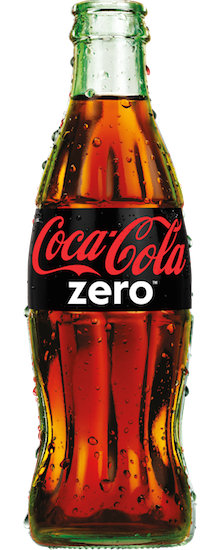
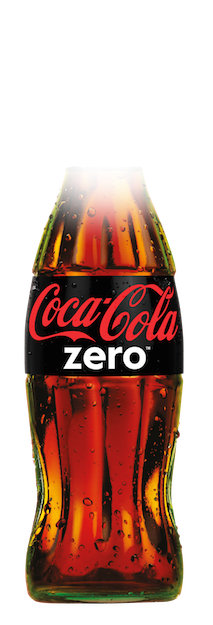
Updated art assets and live demo tweaks

diff --git a/index.html b/index.html
@@ -6,22 +6,29 @@
   <meta name="viewport" content="width=device-width, initial-scale=1">
   <style>
     #volume-container{
-    position: relative;
-    margin: 50px auto 0 auto;
-    width: 190px;
-    padding: 20px;
+    position: absolute;
     z-index: 1;
     background: rgba(205,205,205, 0.8);
     border-radius: 5px;
   }
+  body{
+    /*background-color: #000;*/
+  }
+
   @media (min-width: 480px) {
+      #volume-container{
+      left: 50px;
+      top: 50px;
+      width: 200px;
+      padding: 20px;
+    }    
     .drink {
-      height: 550px;
-      width: 220px;
+      height: 625px;
+      width: 213px;
     }
     #coke {
-      height: 550px;
-      margin: 0 auto;
+      height: 625px;
+      margin: -10px auto 0 auto;
       position: relative;
     }
     #coke .drink {
@@ -30,20 +37,43 @@
       position: absolute;
     }
     #bottle {
-      background: url(images/bottle_empty.alt.png) no-repeat;
+      background: url(images/bottle_empty.png) no-repeat;
+      z-index: 1;
     }
     #liquid {
-      background-color: #651a1a;
-      /*background: url(images/bottle_full.png) no-repeat;*/
-      height: 85%;
+      /*background-color: #651a1a;*/
+      background: url(images/bottle_full.png) no-repeat;
+      background-position: center -2px;
+      background-attachment: fixed;
+      overflow: hidden;
+      height: 100%;
       transition: height 200ms cubic-bezier(0,0,0.58,1.2);
+      z-index: 2;
+    }
+    #liquid img{
+      position: absolute;
+      left: 0;
+      top: 0;
     }
   }
+  @media (max-width: 480px) {  
+    body{
+      background: url(images/cinema_mobile.png) no-repeat;
+      background-size: cover;
+    }  
+    #volume-container{
+      right: 10px;
+      top: 10px;
+      width: 100px;
+      padding: 5px;
+      font-size: 8px
+    }
+  }  
   </style>
 </head>
 <body>
   <div id="coke" class="drink">
-    <div id="liquid" class="drink"></div>
+    <div id="liquid" class="drink"><!-- <img src="images/bottle_full.png"/> --></div>
     <div id="bottle" class="drink"></div>
   </div>
   <div id="volume-container">

diff --git a/public/javascript/app.js b/public/javascript/app.js
@@ -1,10 +1,10 @@
 var socket = io();
 
 // Configurable variables
-var initialQuantity = 85, // % filled of the bottle
+var initialQuantity = 100, // % filled of the bottle
     fps = 24,             // Smoothness of the draining animation
-    volUpRange = 300,     // Volume upper range
-    volDnRange = 50;      // Volume lower range
+    volUpRange = 125,     // Volume upper range
+    volDnRange = 90;      // Volume lower range
 
 var quantity = initialQuantity;
 
@@ -62,12 +62,12 @@ function drinking () {
       } else {
         socket.emit('stopped');
       }
-      gulp = quantity % 15 === 0;
+      gulp = quantity % 5 === 0;
       if (gulp) {
         liquid.style.height = quantity + '%';
       }
       quantity--;
-    }, 1000 / fps);
+    }, 1500 / fps);
   })();
 }
 
@@ -78,7 +78,7 @@ socket.on('audio-new-value', function (volume) {
 //  Reset quantity if at 0, then run drinking function
   if (volume >= volUpRange && nowDrinking === false) {
     if (quantity <= 0) {
-      quantity = initialQuantity;
+      /*quantity = initialQuantity;*/
     }
     drinking();
 //  Stop drinking function
